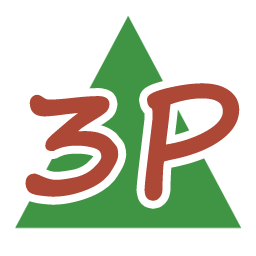
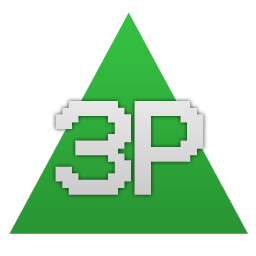
Message d'erreur de preuvelineaire corrigé : on peut entrer n'imp dans "Ouvrir un fichier" - "Entrer une preuve", pe nettoyer les moc, new images

diff --git a/IntergrapheFagique/preuvelineaire.h b/IntergrapheFagique/preuvelineaire.h
@@ -10,27 +10,42 @@ class PreuveLineaire
 {
 	private:
 		std::string m_contenu;
-	
+
 	public:
 		PreuveLineaire(std::string const &chaine) { m_contenu = chaine; };
 		~PreuveLineaire() {};
-		
+
 		bool vide() const { return m_contenu.empty(); };
+		bool erreur() { return m_contenu.find('{') == std::string::npos || m_contenu.find('}') == std::string::npos || m_contenu.find(':') == std::string::npos || m_contenu.find('=') == std::string::npos; };
 		bool commencePar(std::string const &chaine) const { return m_contenu.find(chaine+" ") == 0 || m_contenu.find(" "+chaine+" ") == 0 || m_contenu.find("  "+chaine+" ") == 0; };
 		std::string triplet() {
-			std::string tmp = m_contenu;
-			std::string res1, res2;
-			res1 = tmp.substr(tmp.find('{'), tmp.find(':')-tmp.find('{')+1); tmp.erase(tmp.find('{'), tmp.find(':')-tmp.find('{')+1);
-			res2 = tmp.substr(tmp.find('='), tmp.find('}')-tmp.find('=')+1); tmp.erase(tmp.find('='), tmp.find('}')-tmp.find('=')+1);
-			if(res1.empty() || res2.empty()) { erreurLecturePreuve(); return ""; };
-			return res1+res2; };
-		void tronquerRegle() { m_contenu.erase(0, m_contenu.find('{')); };
-		void tronquerTriplet() { m_contenu.erase(m_contenu.find('{'), m_contenu.find(':')-m_contenu.find('{')+1); m_contenu.erase(m_contenu.find('='), m_contenu.find('}')-m_contenu.find('=')+1); };
+			if(!erreur()) {
+				std::string tmp = m_contenu;
+				std::string res1, res2;
+				res1 = tmp.substr(tmp.find('{'), tmp.find(':')-tmp.find('{')+1); tmp.erase(tmp.find('{'), tmp.find(':')-tmp.find('{')+1);
+				res2 = tmp.substr(tmp.find('='), tmp.find('}')-tmp.find('=')+1); tmp.erase(tmp.find('='), tmp.find('}')-tmp.find('=')+1);
+				return res1+res2;
+			}
+			erreurLecturePreuve();
+			return "";
+		};
+		void tronquerRegle() {
+			if(!erreur()) {
+				m_contenu.erase(0, m_contenu.find('{'));
+			}
+		};
+		void tronquerTriplet() {
+			if(!erreur()) {
+				m_contenu.erase(m_contenu.find('{'), m_contenu.find(':')-m_contenu.find('{')+1);
+				m_contenu.erase(m_contenu.find('='), m_contenu.find('}')-m_contenu.find('=')+1);
+			}
+		};
 		void erreurLecturePreuve() {
 			QMessageBox *popup = new QMessageBox(0);
 			popup->setIcon(QMessageBox::Critical);
 			popup->setText("La preuve ne peut être lue. Erreur de syntaxe.\n\n" + QString::fromStdString(m_contenu));
 			popup->exec();
+			m_contenu = "";
 		};
 		std::string toString() { return m_contenu; };
 };

diff --git a/IntergrapheFagique/container.cpp b/IntergrapheFagique/container.cpp
@@ -83,7 +83,9 @@ void Container::creerPreuve(const string &chaine)
 			newWidget = new WidgetRegleWhile(regles.top());
 		else if(preuve->commencePar("WHILET"))
 			newWidget = new WidgetRegleWhileT(regles.top());
-			
+		else
+			newWidget = NULL;
+		
 		// Enlève la règle à la preuve linéaire
 		preuve->tronquerRegle();
 		// Edition du triplet du premier WidgetRegle de la pile
@@ -91,14 +93,17 @@ void Container::creerPreuve(const string &chaine)
 		// Enlève le triplet à la preuve linéaire
 		preuve->tronquerTriplet();
 		// Ajout du WidgetRegle créé au premier WidgetRegle de la pile
-		regles.top()->ajouterSousPreuve(newWidget);
+		if(newWidget != NULL)
+		{
+			regles.top()->ajouterSousPreuve(newWidget);
+		}
 		// Ajout du WidgetRegle créé à la pile
 		regles.push(newWidget);
 		
 		// Nettoyage de la pile : enlève les WidgetRegle pleins
 		
 		//stack<WidgetRegle*> save = regles; cout << "Avant nettoyage : " << endl; while(!save.empty()) { cout << "|" << save.top()->toString() << ">" << endl; save.pop(); }
-		while(!regles.empty() && regles.top()->estPlein())
+		while(!regles.empty() && regles.top() != NULL && regles.top()->estPlein())
 		{
 			regles.pop();
 		}
